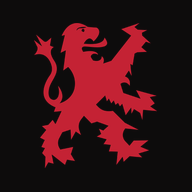
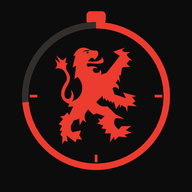
App-icoon: leeuw in een stopwatch-ring

diff --git a/sw.js b/sw.js
@@ -1,5 +1,5 @@
 /* CFC WOD Timer: werkt offline. Verhoog VERSION bij elke update, dan halen telefoons de nieuwe versie op. */
-const VERSION = 'cfc-timer-v3';
+const VERSION = 'cfc-timer-v4';
 const FILES = [
   "./",
   "./fonts/Anton-400-latin-ext.woff2",
